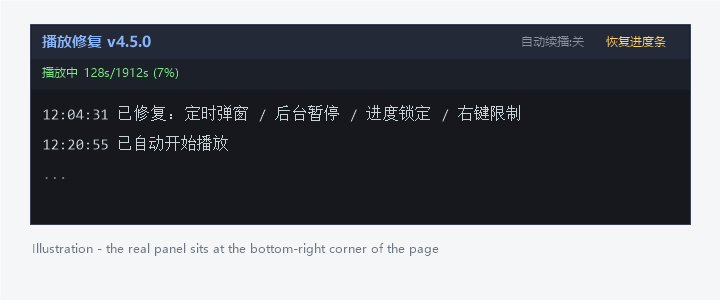
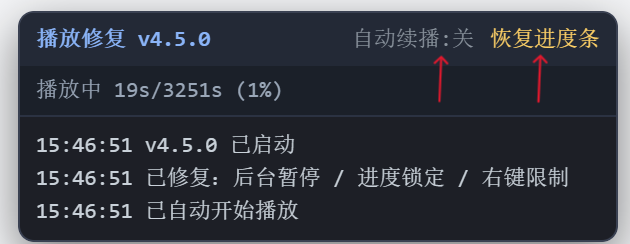
Use real screenshots in README (playing, install, panel)

diff --git a/README.md b/README.md
@@ -5,6 +5,8 @@
 A small browser extension that fixes the playback problems on the Beijing Jiaotong
 University (BJTU) Party education platform — 「党旗飘飘」, `jjfzpx.bjtu.edu.cn`.
 
+![Extension panel while a video is playing](docs/img/playing.png)
+
 ---
 
 ## Why this exists
@@ -71,6 +73,9 @@ Type `chrome://extensions` in the address bar (or `edge://extensions` in Edge):
 
 ![Load unpacked](docs/img/install-1.png)
 
+*The red arrows mark the two buttons you need: **加载未打包的扩展程序 / Load unpacked** at
+the top, and the reload icon on the extension card (used after updating the files).*
+
 **3. Turn on Developer mode**
 
 Toggle **开发者模式 / Developer mode** in the top-right corner.
@@ -91,6 +96,8 @@ corner once a video page is loaded.
 ## Usage
 
 ![Panel](docs/img/panel.png)
+
+*The arrows point at the two controls described below.*
 
 The panel has two controls in its title bar:
 

diff --git a/README.zh-CN.md b/README.zh-CN.md
@@ -5,6 +5,8 @@
 一个浏览器扩展，用于修复北京交通大学党员教育培训平台（「党旗飘飘」，
 `jjfzpx.bjtu.edu.cn`）播放器的体验问题。
 
+![视频播放中的状态面板](docs/img/playing.png)
+
 ---
 
 ## 项目缘起
@@ -66,6 +68,9 @@ git clone https://github.com/yihui504/bjtu-video-play-bug-fix-plugin.git
 
 ![加载未打包的扩展程序](docs/img/install-1.png)
 
+*图中红色箭头标出了两个关键位置：上方的 **加载未打包的扩展程序** 按钮，以及扩展卡片上的
+刷新图标（更新文件后点它重新加载）。*
+
 **3. 打开开发者模式**
 
 点击右上角的 **开发者模式** 开关。
@@ -82,6 +87,8 @@ git clone https://github.com/yihui504/bjtu-video-play-bug-fix-plugin.git
 ## 使用说明
 
 ![状态面板](docs/img/panel.png)
+
+*图中箭头对应下表的两个开关。*
 
 面板标题栏右侧有两个开关：
 
